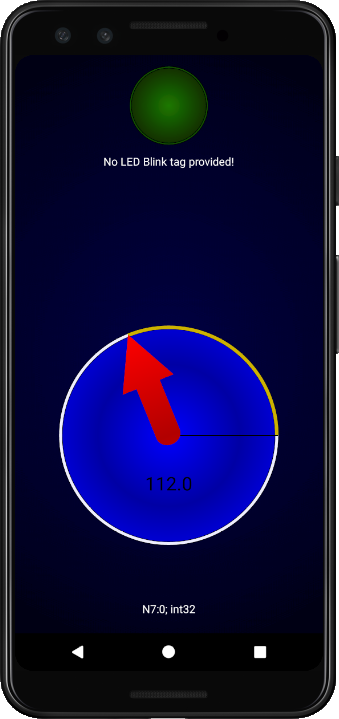
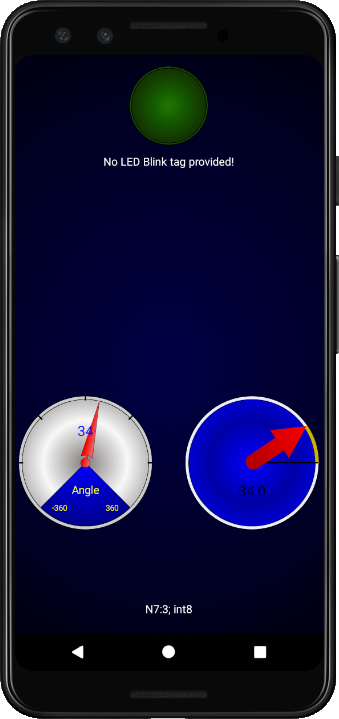
Update RoundGauge control, add it to the "Gauge" activity and update screenshots

Changed region(s): [[0.059, 0.4284, 0.944, 0.765], [0.413, 0.8261, 0.59, 0.8567]]

diff --git a/app/src/main/java/com/e/phonetest/RoundGauge.java b/app/src/main/java/com/e/phonetest/RoundGauge.java
@@ -45,11 +45,11 @@ public class RoundGauge extends View {
 
     public float getGaugeCurrentValue() {return mGaugeCurrentValue;}
 
-    public void setGaugeCurrentValue(float currentValue){
-        if (currentValue < mGaugeMinValue)
+    public void setGaugeCurrentValue(float gaugeCurrentValue){
+        if (gaugeCurrentValue < mGaugeMinValue)
             mGaugeCurrentValue = mGaugeMinValue;
         else
-            mGaugeCurrentValue = Math.min(currentValue, mGaugeMaxValue);
+            mGaugeCurrentValue = Math.min(gaugeCurrentValue, mGaugeMaxValue);
 
         invalidate();
         requestLayout();
@@ -268,8 +268,8 @@ public class RoundGauge extends View {
         float rectOutTop = (getHeight() - rectOutHeight) / 2f;
         float rectOutRight = rectOutLeft + rectOutWidth;
 
-        float rectInWidth = (float)(Math.cos(Math.PI / 4f) * (getWidth() - 40f));
-        float rectInHeight = (float)(Math.sin(Math.PI / 4f) * (getHeight() - 40f));
+        float rectInWidth = (float)(Math.cos(Math.PI / 4f) * (getWidth() - 30f));
+        float rectInHeight = (float)(Math.sin(Math.PI / 4f) * (getHeight() - 30f));
         float rectInLeft = (getWidth() - rectInWidth) / 2f;
         float rectInTop = (getHeight() - rectInHeight) / 2f;
         float rectInRight = rectInLeft + rectInWidth;
@@ -295,7 +295,7 @@ public class RoundGauge extends View {
     }
 
     private void drawMinMaxText(Canvas canvas){
-        canvas.drawText(String.format(Locale.ENGLISH , "%." + mGaugeDecimalPlaces + "f", mGaugeMinValue), getWidth() * 1 / 4f, getHeight() * 55 / 64f, paintMinMax);
+        canvas.drawText(String.format(Locale.ENGLISH , "%." + mGaugeDecimalPlaces + "f", mGaugeMinValue), getWidth() / 4f, getHeight() * 55 / 64f, paintMinMax);
 
         float tempTextLength = paintMinMax.measureText(String.format(Locale.ENGLISH , "%." + mGaugeDecimalPlaces + "f", mGaugeMaxValue));
         canvas.drawText(String.format(Locale.ENGLISH , "%." + mGaugeDecimalPlaces + "f", mGaugeMaxValue), getWidth() * 3 / 4f - tempTextLength, getHeight() * 55 / 64f, paintMinMax);

diff --git a/app/src/main/java/com/e/phonetest/GaugeActivity.java b/app/src/main/java/com/e/phonetest/GaugeActivity.java
@@ -22,6 +22,7 @@ public class GaugeActivity extends AppCompatActivity implements GaugeTaskCallbac
     String[] params = new String[6];
     AngleIndicator ai1;
     LEDLight led1, led2, led3;
+    RoundGauge rg1;
 
     boolean switchTimerState;
     int addressesProvided = 2;
@@ -48,6 +49,7 @@ public class GaugeActivity extends AppCompatActivity implements GaugeTaskCallbac
         led1 = findViewById(R.id.LEDLight1);
         led2 = findViewById(R.id.LEDLight2);
         led3 = findViewById(R.id.LEDLight3);
+        rg1 = findViewById(R.id.roundGauge1);
         btnGaugeDemo = findViewById(R.id.buttonGaugeDemo);
         tvGaugeAddress = findViewById(R.id.tvGaugeAddress);
         tvLEDBlinkAddress = findViewById(R.id.tvLEDBlinkAddress);
@@ -142,6 +144,7 @@ public class GaugeActivity extends AppCompatActivity implements GaugeTaskCallbac
                 val1 = 0;
 
             ai1.setCurrentValue(val1);
+            rg1.setGaugeCurrentValue(val1);
 
             if (millisUntilFinished > 36000){
                 val1++;
@@ -178,6 +181,7 @@ public class GaugeActivity extends AppCompatActivity implements GaugeTaskCallbac
             switchTimerState = false;
             val1 = 1;
             ai1.setCurrentValue(0);
+            rg1.setGaugeCurrentValue(0);
             v.setBackground(ContextCompat.getDrawable(this, android.R.drawable.button_onoff_indicator_on));
 
             if (led2.isLED_ON())
@@ -197,10 +201,12 @@ public class GaugeActivity extends AppCompatActivity implements GaugeTaskCallbac
             tvGaugeAddress.setTextColor(Color.RED);
             tvGaugeAddress.setText(value);
             ai1.setCurrentValue(0);
+            rg1.setGaugeCurrentValue(0);
         } else {
             tvGaugeAddress.setTextColor(textColor);
             tvGaugeAddress.setText(txtGauge);
             ai1.setCurrentValue(Float.parseFloat(value));
+            rg1.setGaugeCurrentValue(Float.parseFloat(value));
         }
     }
 

diff --git a/README.md b/README.md
@@ -31,7 +31,7 @@ See [this link](https://github.com/libplctag/libplctag4android/issues/1) for ins
 - The "Write" buttons are enabled when the tag is present AND the value to write is present.
 - The "Get Tags" button will fetch ControlLogix tags and selecting any of the fetched tags will copy it to the clipboard.
 - The Custom String Length has to be specified when the "custom string" data type is selected.
-- The "Gauge" screen is to demo [AndroidUserControls](https://github.com/GitHubDragonFly/AndroidUserControls) but does allow setting the PLC Tag for either or both: the green LED and the gauge (multiple data types supported).
+- The "Gauge" screen is to demo [AndroidUserControls](https://github.com/GitHubDragonFly/AndroidUserControls) but does allow setting the PLC Tag for either or both: the green LED and the gauges (multiple data types supported).
 The red and blue LEDs are only visible and functional in the Demo mode.
 - Modbus functionality of the libplctag library is not included in this app.
 
